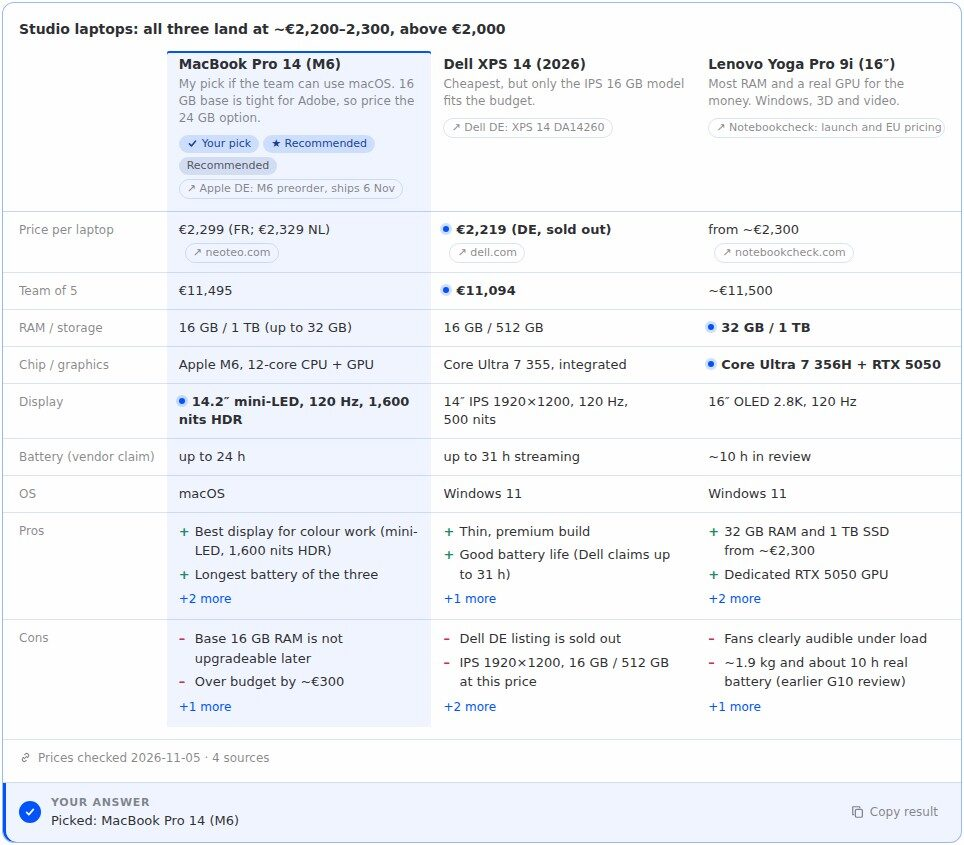
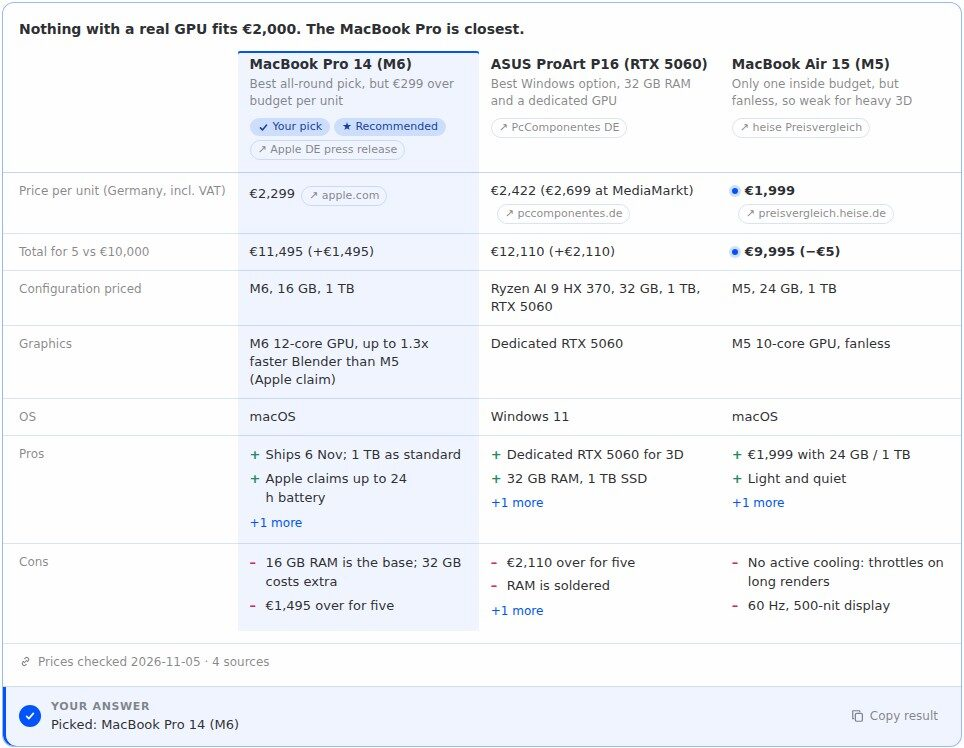
Review 7: undo timers use the latest submit, MEDIA repair like Hermes reads it
- compare, plan, review and confirm send through the current chat id when the undo
  window ends (a runtime → stored id move during the window could send twice)
- MEDIA repair: code, inline code and quotes are examples (never repaired or
  counted), single quotes and backticks are delivery forms, only a missing path in
  card storage for this card is a typo, one directive per card
- HUI+: forms with an unanswered toggle use the text version; destructive review
  labels get the warning style; protocol wording for required toggles

diff --git a/desktop/plugin.js b/desktop/plugin.js
@@ -2556,6 +2556,8 @@ function CompareSource({ url, label }) {
 function CompareCard({ card, sessionId, display, lang }) {
   const labelId = useId()
   const ans = useCardAnswer(card, sessionId, lang)
+  const submitRef = useRef(ans.submit)
+  submitRef.current = ans.submit
   const [selected, setSelected] = useState(() => Math.max(0, card.columns.findIndex(c => c.best)))
   const [expanded, setExpanded] = useState({})
   const [pending, setPending] = useState(null)
@@ -2585,7 +2587,7 @@ function CompareCard({ card, sessionId, display, lang }) {
     if (timer.current) return
     if (!delay) return void ans.submit({ selected: column.id })
     setPending(column)
-    timer.current = setTimeout(() => { timer.current = null; setPending(null); ans.submit({ selected: column.id }) }, delay)
+    timer.current = setTimeout(() => { timer.current = null; setPending(null); submitRef.current({ selected: column.id }) }, delay)
   }
   const picked = ans.answer?.selection?.selected
   // The tinted wash marks the recommendation until there is a pick, then moves to the pick
@@ -3113,6 +3115,8 @@ function ConfirmCard({ card, sessionId, display, lang }) {
   const changeId = useId()
   const changeLabelId = useId()
   const ans = useCardAnswer(card, sessionId, lang)
+  const submitRef = useRef(ans.submit)
+  submitRef.current = ans.submit
   const [changing, setChanging] = useState(false)
   const [change, setChange] = useState('')
   const [pending, setPending] = useState(null) // { ms } while an approval can still be undone
@@ -3144,7 +3148,7 @@ function ConfirmCard({ card, sessionId, display, lang }) {
     const ms = guarded ? (typeof undoDelayMs === 'function' ? undoDelayMs(display) : 4000) : 0
     if (!ms) return void ans.submit({ decision: 'yes' })
     setPending({ ms })
-    timer.current = setTimeout(() => { timer.current = null; setPending(null); ans.submit({ decision: 'yes' }) }, ms)
+    timer.current = setTimeout(() => { timer.current = null; setPending(null); submitRef.current({ decision: 'yes' }) }, ms)
   }
   const undo = () => {
     if (!timer.current) return
@@ -4438,6 +4442,8 @@ function planFromAnswer(card, answer) {
 // focus goes to Undo and back to the button that started it; unmounting sends nothing.
 function planUseUndo(display, onSend) {
   const [pending, setPending] = useState(null)
+  const sendRef = useRef(onSend)
+  sendRef.current = onSend
   const timer = useRef(null)
   const undoRef = useRef(null)
   const startRef = useRef(null)
@@ -4452,7 +4458,7 @@ function planUseUndo(display, onSend) {
     const ms = typeof undoDelayMs === 'function' ? undoDelayMs(display) : 4000
     if (!ms) { onSend(payload); return }
     setPending({ ...info, ms })
-    timer.current = setTimeout(() => { timer.current = null; setPending(null); onSend(payload) }, ms)
+    timer.current = setTimeout(() => { timer.current = null; setPending(null); sendRef.current(payload) }, ms)
   }
   const cancel = () => {
     if (!timer.current) return
@@ -4923,7 +4929,7 @@ function ReviewCard({ card, sessionId, display, lang }) {
   const goRef = useRef(null)
   const backFocus = useRef(false)
   const editable = ans.showActions && !undo.pending
-  const destructive = card.items.some(i => /delete|löschen/i.test(i.tag || '')) || /^\s*(delete|remove|drop|löschen|entfernen)\b/i.test(card.applyLabel || '')
+  const destructive = card.items.some(i => /delete|löschen/i.test(i.tag || '')) || [card.keepLabel, card.dropLabel, card.applyLabel].some(label => /^\s*(delete|remove|drop|löschen|entfernen)\b/i.test(label || ''))
   // Custom labels are used everywhere: buttons, bulk actions, tally, announcements, stamps.
   const custom = Boolean(card.keepLabel || card.dropLabel)
   const keepLabel = card.keepLabel || t(lang, 'reviewKeep')
@@ -5113,7 +5119,7 @@ function ReviewCard({ card, sessionId, display, lang }) {
       ? jsxs('div', { className: 'huic-foot huic-rev-ask', role: 'group', 'aria-labelledby': askId, children: [
           jsx('span', { id: askId, className: 'huic-hint huic-rev-ask-text', children: t(lang, 'reviewAskOpen', { n: open }) }),
           jsx(Btn, { variant: 'ghost', onClick: back, children: t(lang, 'reviewBack') }),
-          jsx(Btn, { ref: goRef, variant: 'primary', onClick: send, children: t(lang, 'reviewSendAnyway') })
+          jsx(Btn, { ref: goRef, variant: destructive ? 'danger-outline' : 'primary', onClick: send, children: t(lang, 'reviewSendAnyway') })
         ] })
       : jsx(Footer, {
           hint: open ? t(lang, 'reviewStillOpen', { n: open }) : t(lang, 'reviewAllDecided', { n: total }),

diff --git a/desktop/src/82-review.js b/desktop/src/82-review.js
@@ -200,7 +200,7 @@ function ReviewCard({ card, sessionId, display, lang }) {
   const goRef = useRef(null)
   const backFocus = useRef(false)
   const editable = ans.showActions && !undo.pending
-  const destructive = card.items.some(i => /delete|löschen/i.test(i.tag || '')) || /^\s*(delete|remove|drop|löschen|entfernen)\b/i.test(card.applyLabel || '')
+  const destructive = card.items.some(i => /delete|löschen/i.test(i.tag || '')) || [card.keepLabel, card.dropLabel, card.applyLabel].some(label => /^\s*(delete|remove|drop|löschen|entfernen)\b/i.test(label || ''))
   // Custom labels are used everywhere: buttons, bulk actions, tally, announcements, stamps.
   const custom = Boolean(card.keepLabel || card.dropLabel)
   const keepLabel = card.keepLabel || t(lang, 'reviewKeep')
@@ -390,7 +390,7 @@ function ReviewCard({ card, sessionId, display, lang }) {
       ? jsxs('div', { className: 'huic-foot huic-rev-ask', role: 'group', 'aria-labelledby': askId, children: [
           jsx('span', { id: askId, className: 'huic-hint huic-rev-ask-text', children: t(lang, 'reviewAskOpen', { n: open }) }),
           jsx(Btn, { variant: 'ghost', onClick: back, children: t(lang, 'reviewBack') }),
-          jsx(Btn, { ref: goRef, variant: 'primary', onClick: send, children: t(lang, 'reviewSendAnyway') })
+          jsx(Btn, { ref: goRef, variant: destructive ? 'danger-outline' : 'primary', onClick: send, children: t(lang, 'reviewSendAnyway') })
         ] })
       : jsx(Footer, {
           hint: open ? t(lang, 'reviewStillOpen', { n: open }) : t(lang, 'reviewAllDecided', { n: total }),

diff --git a/desktop/src/62-compare.js b/desktop/src/62-compare.js
@@ -78,6 +78,8 @@ function CompareSource({ url, label }) {
 function CompareCard({ card, sessionId, display, lang }) {
   const labelId = useId()
   const ans = useCardAnswer(card, sessionId, lang)
+  const submitRef = useRef(ans.submit)
+  submitRef.current = ans.submit
   const [selected, setSelected] = useState(() => Math.max(0, card.columns.findIndex(c => c.best)))
   const [expanded, setExpanded] = useState({})
   const [pending, setPending] = useState(null)
@@ -107,7 +109,7 @@ function CompareCard({ card, sessionId, display, lang }) {
     if (timer.current) return
     if (!delay) return void ans.submit({ selected: column.id })
     setPending(column)
-    timer.current = setTimeout(() => { timer.current = null; setPending(null); ans.submit({ selected: column.id }) }, delay)
+    timer.current = setTimeout(() => { timer.current = null; setPending(null); submitRef.current({ selected: column.id }) }, delay)
   }
   const picked = ans.answer?.selection?.selected
   // The tinted wash marks the recommendation until there is a pick, then moves to the pick

diff --git a/desktop/src/64-confirm.js b/desktop/src/64-confirm.js
@@ -90,6 +90,8 @@ function ConfirmCard({ card, sessionId, display, lang }) {
   const changeId = useId()
   const changeLabelId = useId()
   const ans = useCardAnswer(card, sessionId, lang)
+  const submitRef = useRef(ans.submit)
+  submitRef.current = ans.submit
   const [changing, setChanging] = useState(false)
   const [change, setChange] = useState('')
   const [pending, setPending] = useState(null) // { ms } while an approval can still be undone
@@ -121,7 +123,7 @@ function ConfirmCard({ card, sessionId, display, lang }) {
     const ms = guarded ? (typeof undoDelayMs === 'function' ? undoDelayMs(display) : 4000) : 0
     if (!ms) return void ans.submit({ decision: 'yes' })
     setPending({ ms })
-    timer.current = setTimeout(() => { timer.current = null; setPending(null); ans.submit({ decision: 'yes' }) }, ms)
+    timer.current = setTimeout(() => { timer.current = null; setPending(null); submitRef.current({ decision: 'yes' }) }, ms)
   }
   const undo = () => {
     if (!timer.current) return

diff --git a/desktop/src/81-plan.js b/desktop/src/81-plan.js
@@ -262,6 +262,8 @@ function planFromAnswer(card, answer) {
 // focus goes to Undo and back to the button that started it; unmounting sends nothing.
 function planUseUndo(display, onSend) {
   const [pending, setPending] = useState(null)
+  const sendRef = useRef(onSend)
+  sendRef.current = onSend
   const timer = useRef(null)
   const undoRef = useRef(null)
   const startRef = useRef(null)
@@ -276,7 +278,7 @@ function planUseUndo(display, onSend) {
     const ms = typeof undoDelayMs === 'function' ? undoDelayMs(display) : 4000
     if (!ms) { onSend(payload); return }
     setPending({ ...info, ms })
-    timer.current = setTimeout(() => { timer.current = null; setPending(null); onSend(payload) }, ms)
+    timer.current = setTimeout(() => { timer.current = null; setPending(null); sendRef.current(payload) }, ms)
   }
   const cancel = () => {
     if (!timer.current) return

diff --git a/hui_cards/tool.py b/hui_cards/tool.py
@@ -444,27 +444,71 @@ def ensure_media_lines(response_text: str = "", session_id: str = "", **_kwargs)
         return None
     text = response_text
     for tag in tags:
-        path = tag.split(":", 1)[1].strip('"')
-        name = Path(path).name
-        # The model sometimes retypes the path with a typo: a MEDIA line for this card's file name
-        # that points elsewhere would show as a dead attachment next to the card. Point it here.
-        def fix(m, path=path, name=name, tag=tag):
-            value = m.group(0)[len("MEDIA:"):].strip('"')
-            return tag if Path(value).name == name and value != path else m.group(0)
-        text = MEDIA_ANY_RE.sub(fix, text)
+        text = _repair_card_media(text, tag)
     missing = [t for t in tags if not _has_media_line(text, t.split(":", 1)[1].strip('"'))]
     if missing:
         text = text.rstrip() + "\n\n" + "\n".join(missing)
     return text if text != response_text else None
 
 
-MEDIA_ANY_RE = re.compile(r'MEDIA:(?:"[^"\n]+"|[^\s"]+)')
+# MEDIA directives as Hermes reads them: `MEDIA:` + optional spaces + a "double", 'single' or
+# `backtick` quoted path, or a bare path. Directives inside code, inline code or block quotes are
+# examples, not deliveries (Hermes masks those spans too), so they are neither repaired nor counted.
+MEDIA_ANY_RE = re.compile(r"""MEDIA:\s*(?P<path>`[^`\n]+?`|"[^"\n]+?"|'[^'\n]+?'|[^\s`"']+)""")
+_FENCE_RE = re.compile(r"^(```|~~~)[^\n]*\n.*?^\1[^\n]*$", re.M | re.S)
+_INLINE_CODE_RE = re.compile(r"`[^`\n]+`")
+_QUOTE_LINE_RE = re.compile(r"^[ \t]*>.*$", re.M)
+
+
+def _protected(text: str) -> str:
+    """`text` with code, inline code and block-quote spans blanked (offsets kept)."""
+    chars = list(text)
+    for rx in (_FENCE_RE, _QUOTE_LINE_RE, _INLINE_CODE_RE):
+        for m in rx.finditer("".join(chars)):
+            # `MEDIA:` + a backtick-quoted path is a delivery (Desktop reads it as one), not code.
+            if rx is _INLINE_CODE_RE and re.search(r"MEDIA:\s*$", text[:m.start()]):
+                continue
+            for i in range(m.start(), m.end()):
+                if chars[i] != "\n":
+                    chars[i] = " "
+    return "".join(chars)
+
+
+def _deliveries(text: str):
+    """(start, end, path) of every MEDIA directive outside protected spans."""
+    for m in MEDIA_ANY_RE.finditer(_protected(text)):
+        raw = text[m.start("path"):m.end("path")]
+        value = raw[1:-1] if raw[:1] in "\"'`" and raw[-1:] == raw[:1] and len(raw) > 1 else raw
+        yield m.start(), m.end(), value
+
+
+def _repair_card_media(text: str, tag: str) -> str:
+    """Point a mistyped directive for this card's file at the real file, and keep one directive."""
+    path = tag.split(":", 1)[1].strip('"')
+    name = Path(path).name
+    out, last, seen = [], 0, False
+    for start, end, value in _deliveries(text):
+        norm = value.replace("\\", "/")
+        is_card = value == path
+        # Only a path that looks like card storage, names this card and does not exist is a typo;
+        # a real file elsewhere with the same name (an export, a copy) stays as it is.
+        typo = (not is_card and Path(norm).name == name and "/plugin-data/" in norm and "/cards/" in norm
+                and not os.path.exists(value))
+        if is_card or typo:
+            out.append(text[last:start])
+            # The first delivery stays as the model wrote it if it is right; a typo becomes the real
+            # tag; any later directive for this card is dropped (one card, one attachment).
+            out.append("" if seen else (text[start:end] if is_card else tag))
+            seen = True
+            last = end
+    out.append(text[last:])
+    repaired = "".join(out)
+    return re.sub(r"\n{3,}", "\n\n", repaired) if repaired != text else text
 
 
 def _has_media_line(text: str, path: str) -> bool:
-    """Whether `text` delivers `path` as a MEDIA tag (bare or quoted), not just mentions it."""
-    quoted = re.escape(path)
-    return bool(re.search(rf'MEDIA:(?:"{quoted}"|{quoted})(?![^\s"])', text))
+    """Whether `text` delivers `path` as a MEDIA directive outside code and quotes."""
+    return any(value == path for _s, _e, value in _deliveries(text))
 
 
 # ── the tool ──

diff --git a/tests/test_tool.py b/tests/test_tool.py
@@ -370,3 +370,38 @@ def test_other_media_lines_are_left_alone():
     reply = "Here is the chart:\nMEDIA:/tmp/chart.png"
     fixed = tool.ensure_media_lines(response_text=reply, session_id="other-media")
     assert "MEDIA:/tmp/chart.png" in fixed and fixed.endswith(out["media"])
+
+
+def test_media_repair_respects_code_quotes_and_real_files(tmp_path):
+    out = run({"card": CHOICE}, "desktop", session_id="mx")
+    tag = out["media"]
+    path = tag[len("MEDIA:"):]
+    wrong = path.replace("hermes-ui-cards", "hermes-union")
+    # a mistyped example inside a code block is not a delivery: left alone, the real tag is appended
+    fenced = f"Example:\n```\nMEDIA:{wrong}\n```"
+    fixed = tool.ensure_media_lines(response_text=fenced, session_id="mx")
+    assert f"MEDIA:{wrong}" in fixed and fixed.rstrip().endswith(tag)
+    # single quotes and backticks are delivery forms too
+    for q in ("'", "`"):
+        run({"card": {**CHOICE, "question": f"Q{q}?"}}, "desktop", session_id="mq")
+        t2 = tool._pending["mq"][-1][1]
+        p2 = t2[len("MEDIA:"):]
+        w2 = p2.replace("hermes-ui-cards", "hermes-union")
+        fixed = tool.ensure_media_lines(response_text=f"Pick:\nMEDIA:{q}{w2}{q}", session_id="mq")
+        assert w2 not in fixed and fixed.count(t2) == 1
+    # a real file elsewhere with the card's name (an export) is kept, the card tag is added
+    export = tmp_path / "export" / Path(path).name
+    export.parent.mkdir()
+    export.write_text("copy", encoding="utf-8")
+    run({"card": {**CHOICE, "question": "Export?"}}, "desktop", session_id="me")
+    t3 = tool._pending["me"][-1][1]
+    keep = str(export.with_name(Path(t3[len("MEDIA:"):]).name))
+    Path(keep).write_text("copy", encoding="utf-8")
+    fixed = tool.ensure_media_lines(response_text=f"Saved a copy:\nMEDIA:{keep}", session_id="me")
+    assert f"MEDIA:{keep}" in fixed and fixed.count(t3) == 1
+    # a typo plus the right line → exactly one directive for the card
+    run({"card": {**CHOICE, "question": "Twice?"}}, "desktop", session_id="md")
+    t4 = tool._pending["md"][-1][1]
+    w4 = t4[len("MEDIA:"):].replace("hermes-ui-cards", "hermes-union")
+    fixed = tool.ensure_media_lines(response_text=f"A\nMEDIA:{w4}\nB\n{t4}", session_id="md")
+    assert fixed.count(t4) == 1 and w4 not in fixed

diff --git a/hui_cards/hui_blocks.py b/hui_cards/hui_blocks.py
@@ -5,7 +5,7 @@ Card       | HUI+ node | Differences / fallback
 choice     | choice    | Image URLs unsupported; text fallback when present.
 checklist  | checklist | HUI+ replies contain item text, not item IDs.
 compare    | text      | HUI+ compare has no pick action.
-form       | form      | Required constraints and unsupported field kinds use text.
+form       | form      | Required constraints, unanswered toggles and unsupported field kinds use text.
 confirm    | confirm   | HUI+ has yes/no only; change-enabled cards use text.
 steps      | guide     | Commands are included in each step body.
 decision   | decision  | Weights and scores retained; reply uses labels.
@@ -51,7 +51,7 @@ def to_hui_node(card: dict) -> dict | None:
         node['items'] = [_pick(i, ('id', 'text', 'category', 'checked')) for i in card['items']]
     elif t == 'form':
         fields = card['fields']
-        if card.get('description') or any(f.get('required') or f['kind'] not in ('text', 'number', 'date', 'select', 'toggle') or f.get('maxLength') or f.get('help') or f.get('unit') for f in fields):
+        if card.get('description') or any(f.get('required') or (f['kind'] == 'toggle' and 'default' not in f) or f['kind'] not in ('text', 'number', 'date', 'select', 'toggle') or f.get('maxLength') or f.get('help') or f.get('unit') for f in fields):
             return None
         node.update(_pick(card, ('title',)))
         node['fields'] = [_pick(f, ('name', 'label', 'kind', 'placeholder', 'min', 'max', 'step', 'options', 'default')) for f in fields]

diff --git a/tests/test_hui_blocks.py b/tests/test_hui_blocks.py
@@ -92,3 +92,20 @@ def test_auto_uses_public_config(monkeypatch):
     assert not tool._api_hui_enabled()
     config.load_config_readonly = lambda: {'plugins': {'enabled': []}}
     assert not tool._api_hui_enabled()
+
+
+def test_form_unanswered_toggle_falls_back_but_defaults_map():
+    field = {'name': 'enabled', 'label': 'Enabled', 'kind': 'toggle'}
+    card = {'type': 'form', 'title': 'Options', 'fields': [field]}
+    normalized, errors, _ = validate_card(card)
+    assert normalized is not None, errors
+    normalized['cardId'] = 'toggle-test'
+    assert to_hui_node(normalized) is None
+    for_default_false, errors, _ = validate_card({**card, 'fields': [{**field, 'default': False}]})
+    assert for_default_false is not None, errors
+    for_default_false['cardId'] = 'toggle-test'
+    assert to_hui_node(for_default_false)['fields'][0]['default'] is False
+    for_default_true, errors, _ = validate_card({**card, 'fields': [{**field, 'default': True}]})
+    assert for_default_true is not None, errors
+    for_default_true['cardId'] = 'toggle-test'
+    assert to_hui_node(for_default_true)['fields'][0]['default'] is True

diff --git a/docs/protocol.md b/docs/protocol.md
@@ -27,7 +27,7 @@ What the tool returns depends on where the chat runs:
 | Hermes Desktop / Webapp | `media: "MEDIA:<path>"`, the normalized `card`, `display` settings | The interactive card (if the plugin's Desktop half is on) |
 | Desktop / Webapp with the Desktop half off | the same | The Markdown copy of the card as a file attachment |
 | Desktop with *Interactive cards* switched off | `text` | The text version (applies to cards created after the switch) |
-| API server, *API server card format* `hui`, or `auto` with the Hermes UI+ plugin enabled | `hui`: a fenced ```` ```hui ```` block, plus `text` | The Hermes UI+ app's own card, for the supported variants of 12 types (see `hui_cards/hui_blocks.py`); plan, review, compare, recipe and flashcards always get text |
+| API server, *Cards for the Hermes UI+ app* `hui`, or `auto` with the Hermes UI+ plugin enabled | `hui`: a fenced ```` ```hui ```` block, plus `text` | The Hermes UI+ app's own card, for the supported variants of 12 types (see `hui_cards/hui_blocks.py`); plan, review, compare, recipe and flashcards always get text |
 | CLI, TUI, messaging platforms, the web dashboard chat, other API clients | `text` | Numbered options and a "Reply with …" hint |
 
 On Desktop the model writes one short sentence and the `MEDIA:` line on its own line. If it
@@ -65,7 +65,7 @@ the card (they are saved as a draft) and send nothing:
 | choice | `selected: [optionId]`, `labels: [label]`, `other?: string` | `✓ Chose: A, B` / `✓ Gewählt: A, B` |
 | checklist | `done_ids: [itemId]`, `open_ids: [itemId]`, `done: [text]`, `open: [text]` | `✓ Checklist done: 3 of 5 checked. Still open: X, Y` / `✓ Checkliste fertig: 3 von 5 erledigt. Offen: X, Y` |
 | compare | `selected: columnId`, `label` | `✓ Picked: Pixel 10` / `✓ Gewählt: Pixel 10` |
-| form | `values: {name: value}`; an untouched toggle without a default is `null` and omitted from line 1; required toggles must be touched | `✓ Form sent: Name: Anna, Date: 2026-11-12` / `✓ Formular gesendet: …` |
+| form | `values: {name: value}`; an untouched toggle without a default is `null` and omitted from line 1; required toggles without a default must be answered | `✓ Form sent: Name: Anna, Date: 2026-11-12` / `✓ Formular gesendet: …` |
 | confirm | `decision: "yes" \| "no" \| "change"`, `change?: string` | `✓ Yes, go ahead: <title>` · `✗ No, don't: <title>` · `✎ Change: <text>` / `✓ Ja, mach das: …` · `✗ Nein, lieber nicht: …` · `✎ Ändern: …` |
 | rating | `value`, `scale`, `comment?` | `✓ Rated 4 of 5` / `✓ Bewertung: 4 von 5` |
 | slider | `value`, `unit?` | `✓ Chose: 300 €` / `✓ Gewählt: 300 €` |
@@ -175,7 +175,7 @@ the card afresh.
 **Settings.** `GET /api/plugins/hermes-ui-cards/settings` returns compact, accent and undo time; the
 Desktop half reads it once per profile/connection and after every save in Settings → Plugins (falling
 back to the `plugins.manage` list RPC), so these three apply to cards already on screen. *Interactive
-cards*, *Card types* and *API server card format* affect cards created afterwards; a changed *Card types*
+cards*, *Card types* and *Cards for the Hermes UI+ app* affect cards created afterwards; a changed *Card types*
 list reaches the tool description after a Hermes restart (an empty or unrecognized list means all types).
 
 **Retention.** The 2,000 most recently shown or answered cards (with up to 8 answering chats and 16
